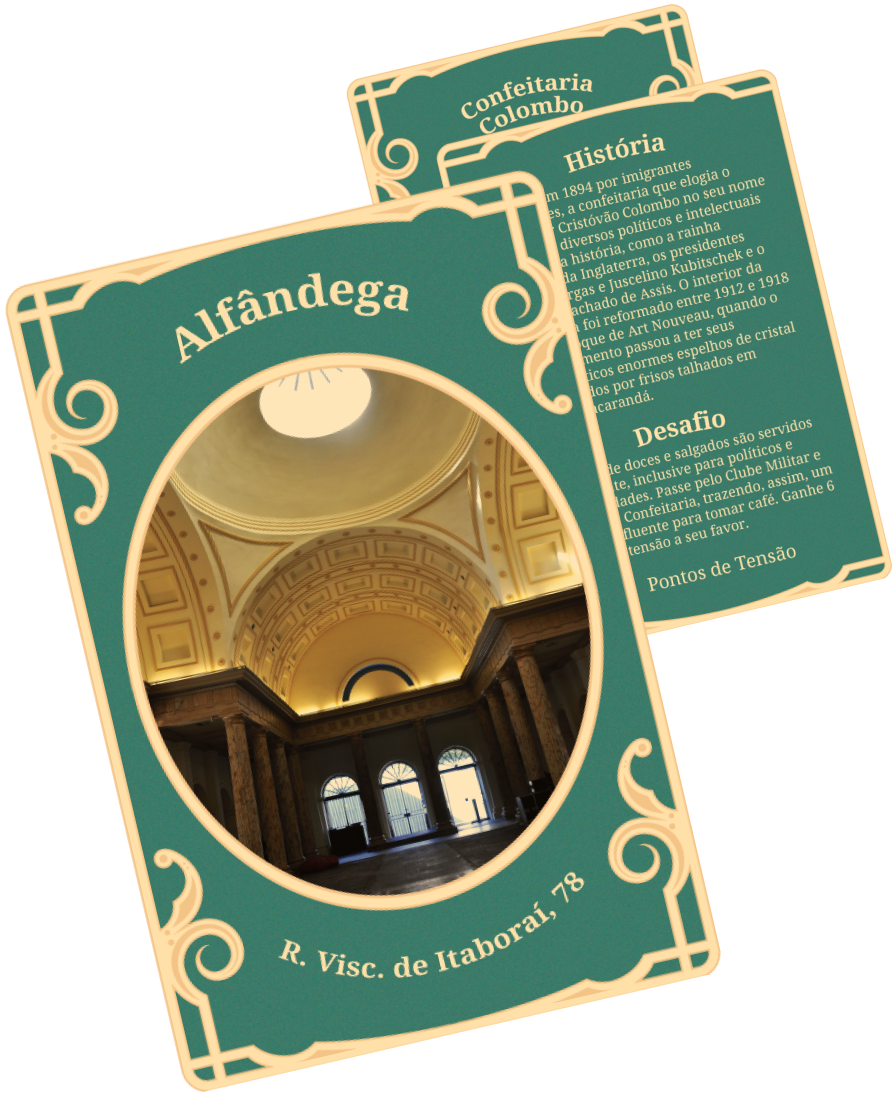
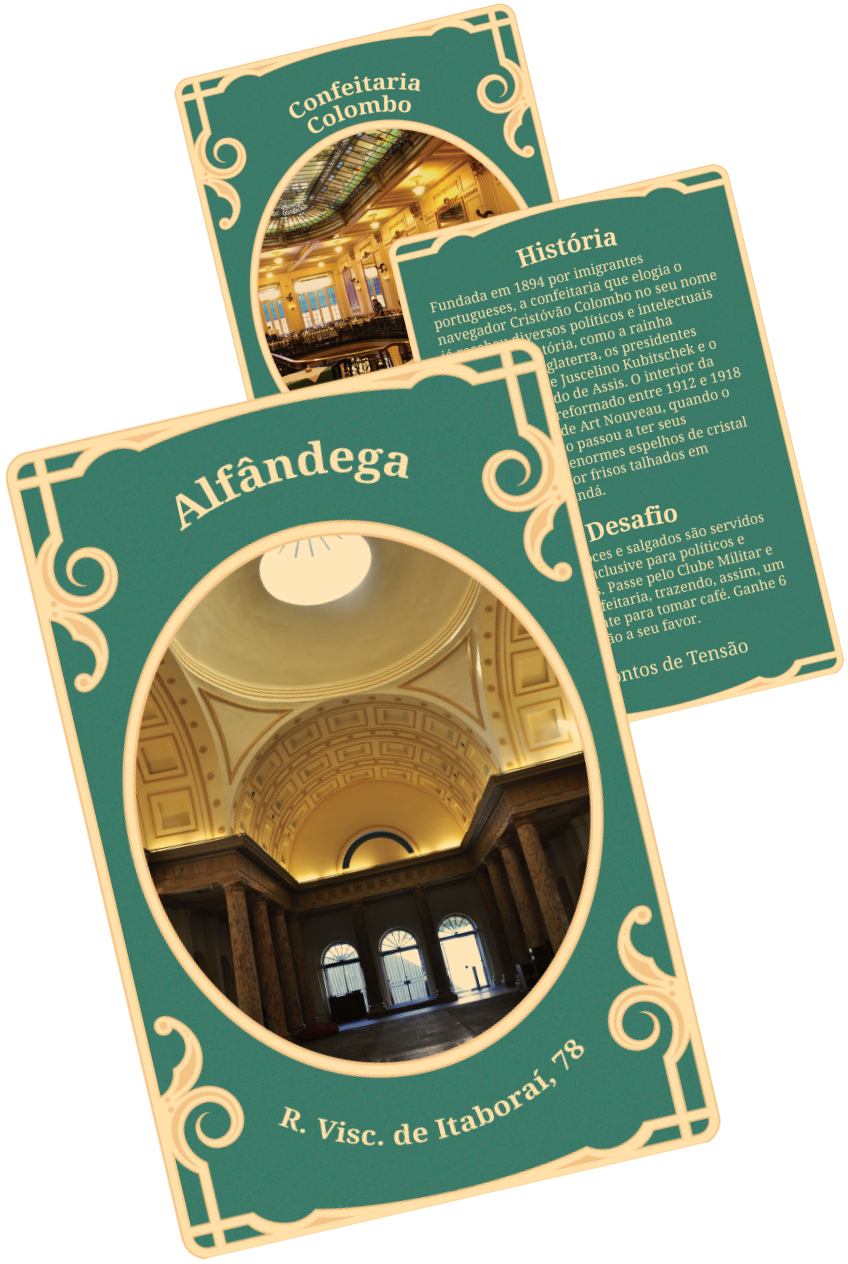
cards summary margin and size update

diff --git a/projects/vaccine-revolt.html b/projects/vaccine-revolt.html
@@ -21,7 +21,7 @@
         <header>
             <div>
                 <nav>
-                    <a href="../index.html"><img src="../img/frpv-logo.svg" alt="frpv logo" width="86"></a>
+                    <a href="../"><img src="../img/frpv-logo.svg" alt="frpv logo" width="86"></a>
                 </nav>
             </div>
 
@@ -41,7 +41,7 @@
 
             <section class="cards-summary">
                 <div>
-                    <img src="img/vaccine-revolt/vaccine-cards-3-places.png" width="596" alt="3 monument cards">
+                    <img src="img/vaccine-revolt/vaccine-cards-3-places.png" width="560" alt="3 monument cards">
                     <div>
                         <h2>15</h2>
                         <h4>Monumentos para serem descobertos</h4>
@@ -53,7 +53,7 @@
                         <h2>13</h2>
                         <h4>Itens para te ajudar durante a partida</h4>
                     </div>
-                    <img src="img/vaccine-revolt/vaccine-cards-3-itens.png" width="473" alt="3 item cards">
+                    <img src="img/vaccine-revolt/vaccine-cards-3-itens.png" width="560" alt="3 item cards">
                 </div>
             </section>
 
@@ -61,7 +61,7 @@
 
         <footer>
             <section>
-                <a href="../index.html"><img src="../img/frpv-logo.svg" alt="frpv logo" width="86"></a>
+                <a href="../"><img src="../img/frpv-logo.svg" alt="frpv logo" width="86"></a>
                 <!--p>Made with 📝, 💻 & 💙</p-->
                 <p>Hosted on <a class="underline-link" href="https://github.com/Feliperpvieira/feliperpvieira.github.io">GitHub</a></p>
             </section>

diff --git a/projects/index.html b/projects/index.html
@@ -20,7 +20,7 @@
         <header>
             <div>
                 <nav>
-                    <a href="../index.html"><img src="../img/frpv-logo.svg" alt="frpv logo" width="86"></a>
+                    <a href="../"><img src="../img/frpv-logo.svg" alt="frpv logo" width="86"></a>
                 </nav>
             </div>
         </header>
@@ -31,7 +31,7 @@
 
         <footer>
             <section>
-                <a href="../index.html"><img src="../img/frpv-logo.svg" alt="frpv logo" width="86"></a>
+                <a href="../"><img src="../img/frpv-logo.svg" alt="frpv logo" width="86"></a>
                 <!--p>Made with 📝, 💻 & 💙</p-->
                 <p>Hosted on <a class="underline-link" href="https://github.com/Feliperpvieira/feliperpvieira.github.io">GitHub</a></p>
             </section>

diff --git a/projects/css/vaccine-revolt.css b/projects/css/vaccine-revolt.css
@@ -57,7 +57,7 @@ nav{
 
 /* Cards summary */
 .cards-summary{
-    margin: 5.5rem 2rem;
+    margin: 5.5rem 1rem;
 }
 
 .cards-summary div{
@@ -71,11 +71,11 @@ nav{
 }
 
 .card-bottom{
-    margin-top: -34rem;
+    margin-top: -40rem;
 }
 
 .card-bottom div{
-    padding-bottom: 6rem;
+    padding-bottom: 1.5rem;
 }
 
 .cards-summary div div{
